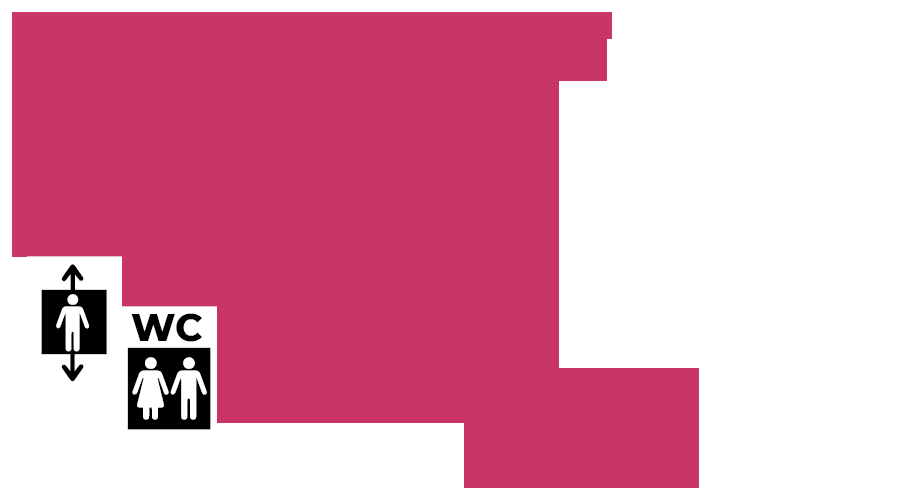
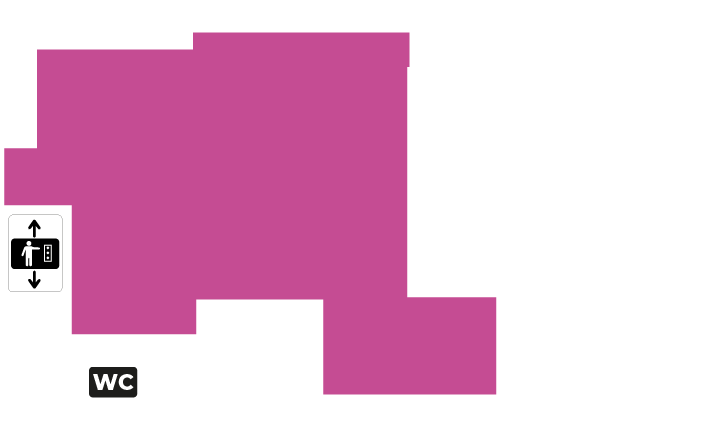
TMS-1070: Change lobby-display images, allow single exhibition to be in two spaces

diff --git a/models/page-lobby-display.php b/models/page-lobby-display.php
@@ -15,7 +15,7 @@ class PageLobbyDisplay extends BaseModel {
      * @return string
      */
     public function font() {
-        return get_stylesheet_directory_uri() . '/assets/fonts/BebasNeue-Regular.ttf';
+        return \get_stylesheet_directory_uri() . '/assets/fonts/BebasNeue-Regular.ttf';
     }
 
     /**
@@ -25,19 +25,19 @@ class PageLobbyDisplay extends BaseModel {
      */
     public function lobby_images() {
         $images = [
-            'map_3rd_floor'   => get_stylesheet_directory_uri() . '/assets/images/aula/map_3rd_floor.png',
-            'third'           => get_stylesheet_directory_uri() . '/assets/images/aula/3rd.png',
-            'map_2nd_floor'   => get_stylesheet_directory_uri() . '/assets/images/aula/map_2nd_floor.png',
-            'second'          => get_stylesheet_directory_uri() . '/assets/images/aula/2nd.png',
-            'map_groundfloor' => get_stylesheet_directory_uri() . '/assets/images/aula/map_groundfloor.png',
-            'first'           => get_stylesheet_directory_uri() . '/assets/images/aula/1st.png',
-            'map_basement'    => get_stylesheet_directory_uri() . '/assets/images/aula/map_basement.png',
-            'basement'        => get_stylesheet_directory_uri() . '/assets/images/aula/basement.png',
-            'hallway'         => get_stylesheet_directory_uri() . '/assets/images/aula/hallway.png',
-            'food'            => get_stylesheet_directory_uri() . '/assets/images/aula/food.png',
-            'shop'            => get_stylesheet_directory_uri() . '/assets/images/aula/shop.png',
-            'loc_white'       => get_stylesheet_directory_uri() . '/assets/images/aula/loc_white.png',
-            'press'           => get_stylesheet_directory_uri() . '/assets/images/aula/press.png',
+            'map_3rd_floor'   => \get_stylesheet_directory_uri() . '/assets/images/aula/map_3rd_floor.png',
+            'third'           => \get_stylesheet_directory_uri() . '/assets/images/aula/3rd.png',
+            'map_2nd_floor'   => \get_stylesheet_directory_uri() . '/assets/images/aula/map_2nd_floor.png',
+            'second'          => \get_stylesheet_directory_uri() . '/assets/images/aula/2nd.png',
+            'map_groundfloor' => \get_stylesheet_directory_uri() . '/assets/images/aula/map_groundfloor.png',
+            'first'           => \get_stylesheet_directory_uri() . '/assets/images/aula/1st.png',
+            'map_basement'    => \get_stylesheet_directory_uri() . '/assets/images/aula/map_basement.png',
+            'basement'        => \get_stylesheet_directory_uri() . '/assets/images/aula/basement.png',
+            'hallway'         => \get_stylesheet_directory_uri() . '/assets/images/aula/hallway.png',
+            'food'            => \get_stylesheet_directory_uri() . '/assets/images/aula/food.png',
+            'shop'            => \get_stylesheet_directory_uri() . '/assets/images/aula/shop.png',
+            'loc_white'       => \get_stylesheet_directory_uri() . '/assets/images/aula/loc_white.png',
+            'press'           => \get_stylesheet_directory_uri() . '/assets/images/aula/press.png',
         ];
 
         return $images;
@@ -50,10 +50,10 @@ class PageLobbyDisplay extends BaseModel {
      */
     public function language_versions() {
         $language_versions = [
-            'en_url'     => get_the_permalink( pll_get_post( get_the_ID(), 'en' ) ),
-            'fi_url'     => get_the_permalink( pll_get_post( get_the_ID(), 'fi' ) ),
-            'current_fi' => pll_current_language() === 'fi' ? 'active' : '',
-            'current_en' => pll_current_language() === 'en' ? 'active' : '',
+            'en_url'     => \get_the_permalink( \pll_get_post( get_the_ID(), 'en' ) ),
+            'fi_url'     => \get_the_permalink( \pll_get_post( get_the_ID(), 'fi' ) ),
+            'current_fi' => \pll_current_language() === 'fi' ? 'active' : '',
+            'current_en' => \pll_current_language() === 'en' ? 'active' : '',
         ];
 
         return $language_versions;
@@ -87,14 +87,22 @@ class PageLobbyDisplay extends BaseModel {
         $query = new WP_Query( $args );
 
         return array_map( function ( $post ) {
-            $exhibition                = (object) get_fields( $post->ID );
-            $exhibition->title         = get_the_title( $post->ID );
-            $exhibition->image         = has_post_thumbnail( $post->ID ) ? get_the_post_thumbnail_url( $post->ID, 'medium_large' ) : null;
-            $exhibition->upcoming      = has_term( 'tulossa', 'exhibition-status', $post );
-            $exhibition->upcoming_text = __( 'Upcoming', 'tms-theme-vapriikki' );
-            $term_obj_list             = get_the_terms( $post->ID, 'exhibition-status' );
-            $terms_string              = join( '', wp_list_pluck( $term_obj_list, 'slug' ) );
-            $exhibition->terms_string  = str_replace( [ 'tulossa', 'arkisto', 'vaihtuvat', 'pysyvat' ], '', $terms_string );
+            $exhibition                = (object) \get_fields( $post->ID );
+            $exhibition->title         = \get_the_title( $post->ID );
+            $exhibition->image         = \has_post_thumbnail( $post->ID ) ? get_the_post_thumbnail_url( $post->ID, 'medium_large' ) : null;
+            $exhibition->upcoming      = \has_term( 'tulossa', 'exhibition-status', $post );
+            $exhibition->upcoming_text = \__( 'Upcoming', 'tms-theme-vapriikki' );
+            $term_obj_list             = \get_the_terms( $post->ID, 'exhibition-status' );
+            $terms_strings             = join( '_', \wp_list_pluck( $term_obj_list, 'slug' ) );
+            $terms_string              = str_replace( [ 'tulossa', 'arkisto', 'vaihtuvat', 'pysyvat' ], '', $terms_strings );
+            // Remove leading and trailing underscores
+            if ( str_starts_with( $terms_string, '_' ) ) {
+                $terms_string = substr( $terms_string, 1 );
+            }
+            if ( str_ends_with( $terms_string, '_' ) ) {
+                $terms_string = substr( $terms_string, 0, -1 );
+            }
+            $exhibition->terms_string  = $terms_string;
 
             return $exhibition;
 

diff --git a/CHANGELOG.MD b/CHANGELOG.MD
@@ -7,6 +7,8 @@ and this project adheres to [Semantic Versioning](http://semver.org/spec/v2.0.0.
 
 ## [Unreleased]
 
+- TMS-1070: Change lobby-display images, allow single exhibition to be in two spaces
+
 ## [1.3.9] - 2024-09-25
 
 - TMS-1067: Show price-info for event in listing if it's free
